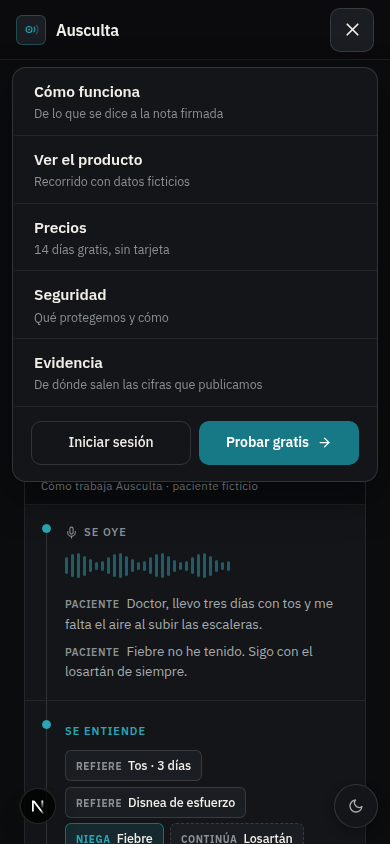
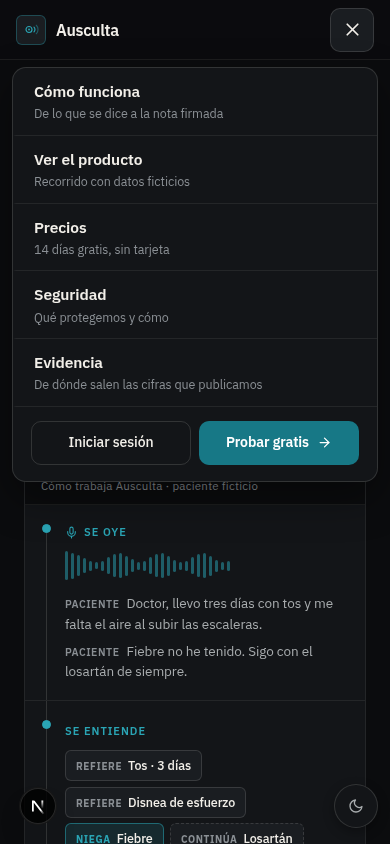
Acta de la transformación: cómo se volvió a mirar, y qué se midió
El README del directorio de auditoría deja los comandos exactos con los que
se recorrió el producto —público y consultorio con sesión real contra el
emulador—, la tabla de lo que SÓLO se vio mirando, y las medidas de antes y
después.

Y lo que no se pudo comprobar, dicho: no hay WebKit en este entorno, así que
todo lo que dice «390 px» es Chromium a 390 px y no un iPhone; el alto del
esqueleto de la puerta está verificado por lectura porque la comprobación de
sesión de Firebase se resuelve contra IndexedDB y no se deja frenar desde
fuera; y la línea de tiempo del expediente no se juzga con la muestra de un
solo encuentro que siembra el emulador.

Se añaden también las capturas finales de la superficie pública y el arnés de
menos-movimiento, que comprueba lo que una captura no puede: que con la
preferencia puesta no queda nada escondido ni girando en bucle (0 y 0 en
portada, demo y puerta).

Claude-Session: https://claude.ai/code/session_01RykDmakZXRksFV3jtXFqL2

diff --git a/docs/audit/ausculta-transformacion/README.md b/docs/audit/ausculta-transformacion/README.md
@@ -1,0 +1,75 @@
+# Transformación de experiencia de producto — acta
+
+Ocho unidades, del 1-sep-2026. Cada una salió de **mirar el producto servido
+en un navegador**, no de leer el código; las capturas de `antes/` y `despues/`
+son la prueba, y `interno/` son las pantallas del consultorio con sesión real
+contra el emulador.
+
+## Cómo se volvió a mirar
+
+```bash
+# superficie pública
+npx next dev -p 3100
+node scripts/ausculta-transformacion/capturar.mjs http://localhost:3100 <salida> <rutas…>
+node scripts/ausculta-transformacion/recorrer.mjs  http://localhost:3100 / <salida> 390
+
+# el consultorio, con sesión (emulador + datos sintéticos)
+npx firebase emulators:start --only auth,firestore --project demo-nexusmed-v10
+node scripts/design/sembrar-emulador.mjs
+npm run arnes:dev                                  # http://localhost:3200
+SALIDA=docs/audit/ausculta-transformacion/interno ANCHOS=390,1440 \
+  node scripts/carril-excelencia/capturar-con-sesion.mjs http://localhost:3200 hoy <rutas…>
+
+# accesibilidad, en los DOS temas
+node scripts/carril-excelencia/axe-recorridos.mjs   http://localhost:3200 <rutas…>   # oscuro
+node scripts/ausculta-transformacion/tema-claro.mjs http://localhost:3200 <salida> <rutas…>
+node scripts/ausculta-transformacion/axe-detalle.mjs http://localhost:3200 /precios 390
+
+# interacción, que una captura no demuestra
+node scripts/ausculta-transformacion/probar-menu.mjs       http://localhost:3200 <salida>
+node scripts/ausculta-transformacion/menos-movimiento.mjs  http://localhost:3200
+node scripts/ausculta-transformacion/medir-color.mjs
+node scripts/ausculta-transformacion/medir-sidebar.mjs
+```
+
+## Lo que sólo se vio mirando
+
+| Qué | Cómo se vio | Dónde |
+|---|---|---|
+| La portada vendía un agendador con bot de WhatsApp | Captura de `/` a 1440 | `antes/landing-1440-p01.png` |
+| El sitio público no tenía menú móvil | Captura de `/` a 390 | `antes/landing-390-p00.png` |
+| `/opengraph-image` devolvía **HTTP 500** | `curl` a la ruta | — |
+| El acento retirado pintaba 37 sitios | Píldora del héroe: relleno cian, borde índigo | `antes/landing-1440-p01.png` |
+| 21 fallos de contraste en **tema claro** | axe con `colorScheme: 'light'` | `tema-claro.mjs` |
+| La agenda del teléfono no dejaba leer un nombre | Captura de `/calendario` a 390 con sesión | `interno/calendario-hoy-390.png` |
+| La agenda salía **rosa** con un solo médico | `getComputedStyle` del bloque real | `medir-color.mjs` |
+| El nombre del consultorio envolvía a dos renglones | Alto medido: 42 px en vez de 21 | `medir-sidebar.mjs` |
+
+Y una que sólo se vio **volviendo a medir después de arreglar**: la cabecera
+del shell se corrigió en `Sidebar.tsx` y no cambió un píxel, porque a 1440
+quien la pinta es `FlowRail.tsx`. El diff se veía perfecto.
+
+## Estado medido al cerrar
+
+| Medida | Antes | Después |
+|---|---|---|
+| axe grave · 15 rutas públicas × 3 anchos · **oscuro** | 6 | **0** |
+| axe grave · las mismas × **claro** | 21 | **0** |
+| Alto de la portada · escritorio | 6 496 px | 5 659 px |
+| Menú móvil en el sitio público | no existía | 5 destinos, foco atrapado, Escape devuelve el foco |
+| Temas del producto en la guía | 14 | 23 |
+| Marcas de proveedor de IA de cara al médico | 7 | 0 |
+| Trinquete de lint | 95 | **94** |
+| Trinquete de diseño · hex en línea | 357 | **328** |
+| Trinquete de diseño · tamaños fuera de escala | 1 947 | **1 874** |
+
+## Lo que NO se pudo comprobar aquí, dicho
+
+- **WebKit / iPhone real.** Sólo hay Chromium en este entorno. Todo lo que
+  dice «390 px» es Chromium a 390 px, que no es un iPhone.
+- **El alto del esqueleto de la puerta** contra el formulario real: verificado
+  por lectura. La comprobación de sesión de Firebase se resuelve contra
+  IndexedDB y no se deja frenar desde fuera.
+- **La línea de tiempo del expediente con años de historia.** El emulador
+  siembra un encuentro; juzgar si «cuenta una historia» con una muestra de uno
+  sería opinar, no medir.
